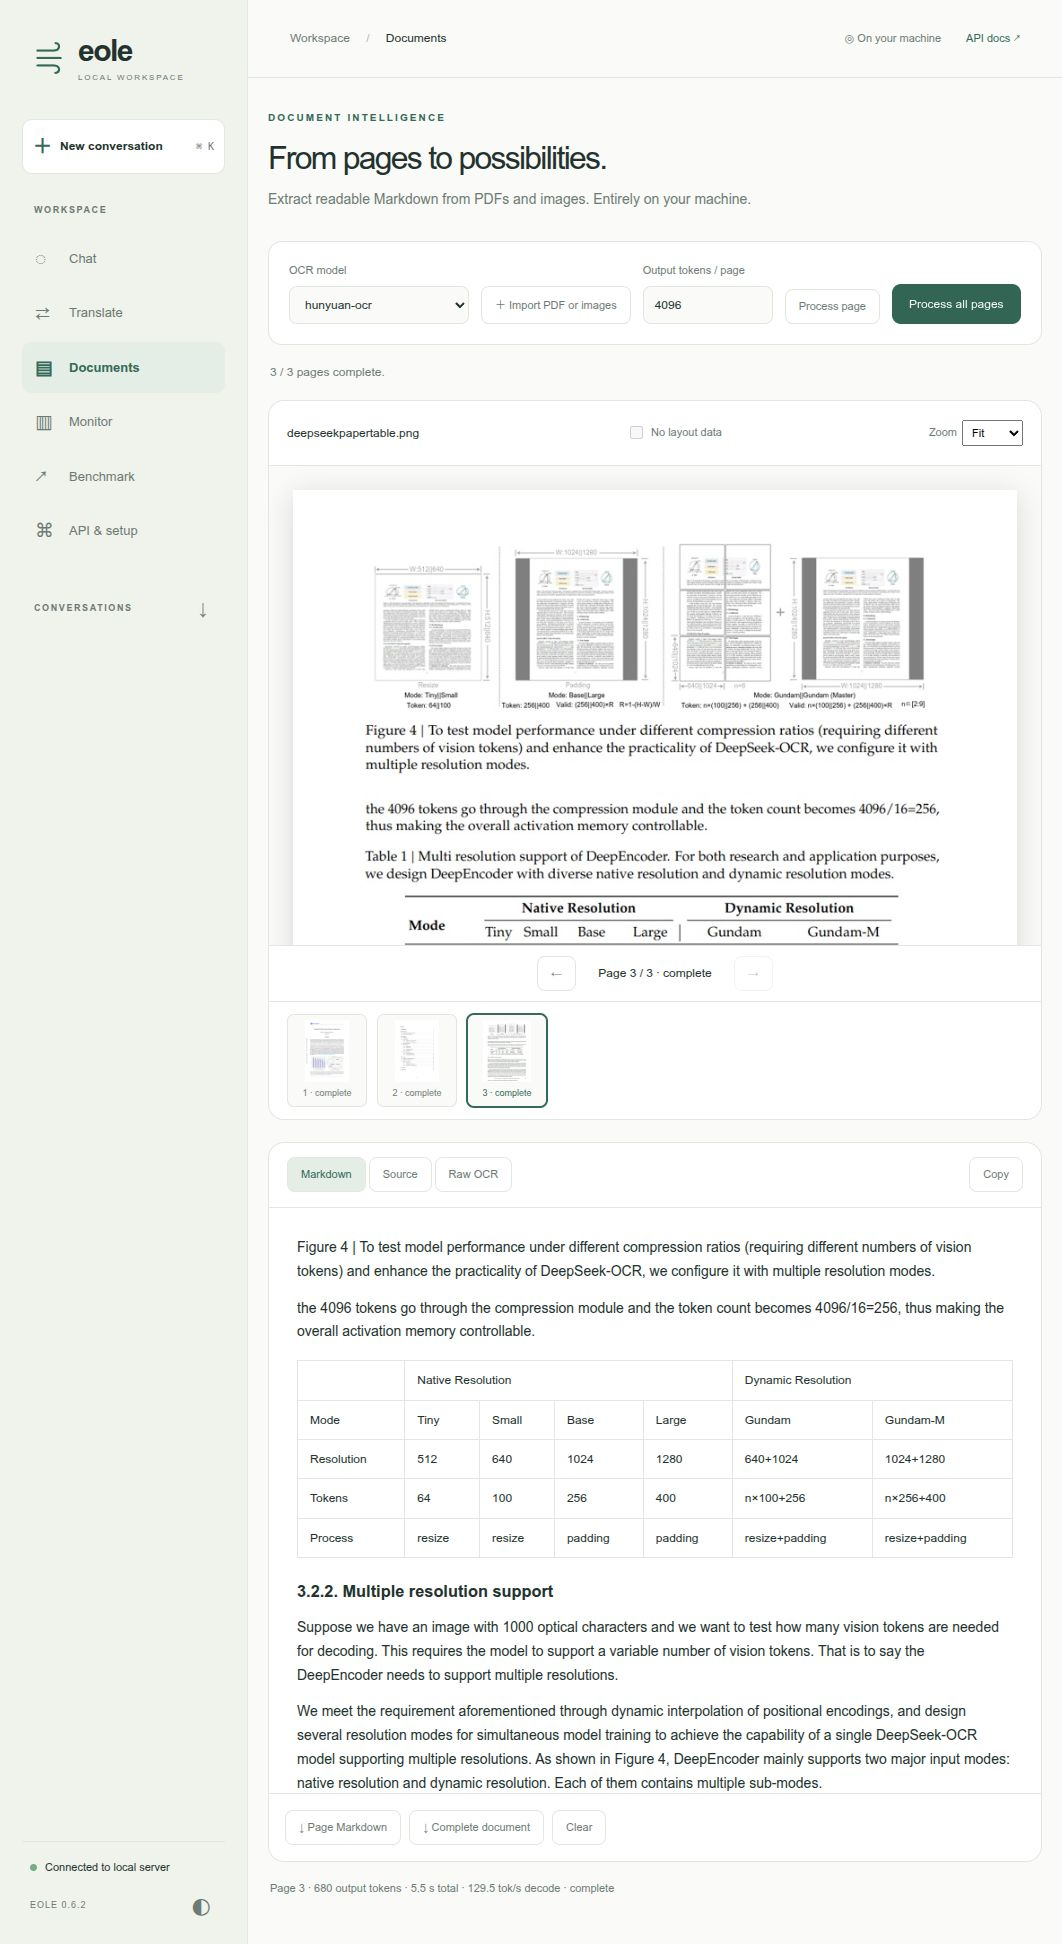
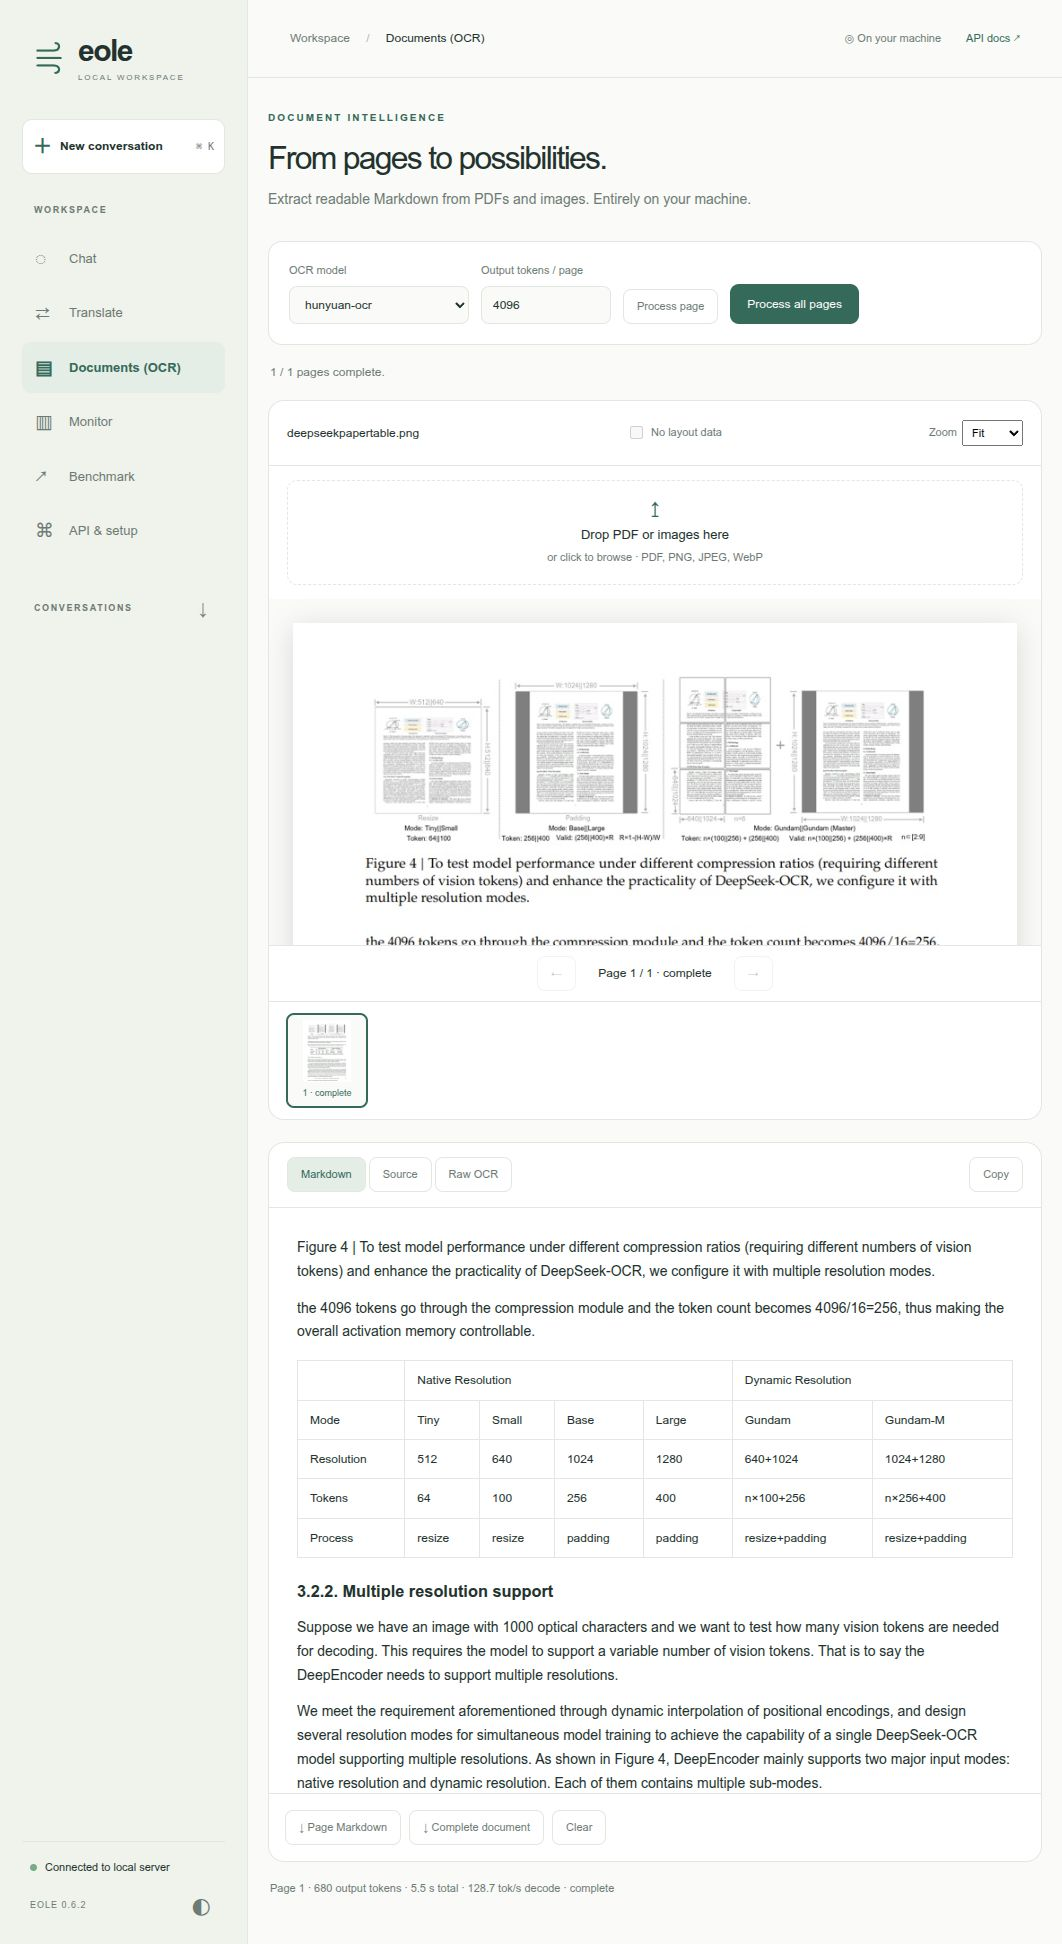
Add document drag-and-drop and clarify OCR workspace navigation

diff --git a/eole/server/web/ocr.js b/eole/server/web/ocr.js
@@ -24,6 +24,7 @@
       $(id).disabled =
         running || importing || !pages.length || !$("model").value;
     $("file").disabled = running || importing;
+    $("dropzone").setAttribute("aria-disabled", String(running || importing));
     $("clear").disabled = running || importing || !pages.length;
     $("model").disabled = running;
     $("limit").disabled = running;
@@ -142,14 +143,63 @@
     controls();
     layoutControl();
   });
-  document.querySelector(".ocr-upload").onkeydown = (event) => {
+  const area = $("document-area");
+  let dragDepth = 0;
+  const hasFiles = (event) =>
+    Array.from(event.dataTransfer?.types || []).includes("Files");
+  $("dropzone").onclick = (event) => {
+    if (event.target !== $("file") && !running && !importing) $("file").click();
+  };
+  $("dropzone").onkeydown = (event) => {
     if (event.key === "Enter" || event.key === " ") {
       event.preventDefault();
-      $("file").click();
+      $("dropzone").click();
     }
   };
-  $("file").onchange = async () => {
-    const files = Array.from($("file").files);
+  area.addEventListener("dragenter", (event) => {
+    if (!hasFiles(event)) return;
+    event.preventDefault();
+    dragDepth++;
+    if (!running && !importing) area.classList.add("ocr-drag-active");
+  });
+  area.addEventListener("dragover", (event) => {
+    if (hasFiles(event)) {
+      event.preventDefault();
+      event.dataTransfer.dropEffect = running || importing ? "none" : "copy";
+    }
+  });
+  area.addEventListener("dragleave", (event) => {
+    dragDepth = Math.max(0, dragDepth - 1);
+    if (!dragDepth) area.classList.remove("ocr-drag-active");
+  });
+  area.addEventListener("drop", (event) => {
+    if (!hasFiles(event)) return;
+    event.preventDefault();
+    event.stopPropagation();
+    dragDepth = 0;
+    area.classList.remove("ocr-drag-active");
+    importFiles(Array.from(event.dataTransfer.files));
+  });
+  // A missed drop must not navigate away and discard the current document.
+  for (const name of ["dragover", "drop"])
+    document.addEventListener(name, (event) => {
+      if (hasFiles(event)) event.preventDefault();
+    });
+  $("file").onchange = () => importFiles(Array.from($("file").files));
+  async function importFiles(files) {
+    if (running || importing) {
+      status("Wait for processing to finish before adding files.");
+      return;
+    }
+    if (!files.length) return;
+    if (
+      files.length > 50 ||
+      files.some((f) => !/\.(pdf|png|jpe?g|webp)$/i.test(f.name))
+    ) {
+      status("Choose up to 50 PDF, PNG, JPEG or WebP files.");
+      $("file").value = "";
+      return;
+    }
     importing = true;
     controls();
     try {
@@ -189,7 +239,7 @@
         show();
       }
       status(
-        `${pages.length} pages ready. Select a page or process the complete document.`,
+        `${pages.length} ${pages.length === 1 ? "page" : "pages"} ready. Select a page or process the complete document.`,
       );
     } catch (e) {
       status(e.message);
@@ -198,7 +248,7 @@
       $("file").value = "";
       controls();
     }
-  };
+  }
   async function process(indices) {
     const max_tokens = Number($("limit").value);
     if (!Number.isInteger(max_tokens) || max_tokens < 1 || max_tokens > 16384) {
@@ -332,7 +382,7 @@
     pages = [];
     selected = 0;
     $("preview").innerHTML =
-      '<div class="ocr-empty"><h2>Ready for your next document</h2><p>Import a PDF or images to begin.</p></div>';
+      '<div class="ocr-empty"><h2>Ready for your next document</h2><p>Drop a PDF or images above to begin.</p></div>';
     $("output").textContent = "";
     $("thumbnails").textContent = "";
     $("name").textContent = "Original document";

diff --git a/eole/server/web/index.html b/eole/server/web/index.html
@@ -40,7 +40,7 @@
         ><button class="nav-item" data-view="translate">
           <span>⇄</span> Translate</button
         ><button class="nav-item" data-view="ocr">
-          <span>▤</span> Documents</button
+          <span>▤</span> Documents (OCR)</button
         ><button class="nav-item" data-view="monitor">
           <span>▥</span> Monitor</button
         ><button class="nav-item" data-view="benchmark">
@@ -100,13 +100,6 @@
                 id="ocr-model"
                 aria-label="OCR model"
               ></select></label
-            ><label class="quiet-button ocr-upload" role="button" tabindex="0"
-              >＋ Import PDF or images<input
-                id="ocr-file"
-                type="file"
-                accept=".pdf,image/png,image/jpeg,image/webp"
-                multiple
-                hidden /></label
             ><label
               >Output tokens / page<input
                 id="ocr-limit"
@@ -125,11 +118,11 @@
             role="status"
             aria-live="polite"
           >
-            Import a document to begin · PDF, PNG, JPEG or WebP · up to 50 pages
-            / 20 MB per file
+            Drop a document to begin · PDF, PNG, JPEG or WebP · up to 50 pages /
+            20 MB per file
           </div>
           <div class="ocr-grid">
-            <div class="ocr-panel">
+            <div class="ocr-panel" id="ocr-document-area">
               <div class="ocr-panel-heading">
                 <strong id="ocr-name">Original document</strong
                 ><label
@@ -144,12 +137,30 @@
                   </select></label
                 >
               </div>
+              <div
+                id="ocr-dropzone"
+                class="ocr-dropzone"
+                role="button"
+                tabindex="0"
+                aria-label="Drop PDF or images here, or click to browse"
+              >
+                <span class="ocr-drop-icon" aria-hidden="true">↥</span>
+                <strong>Drop PDF or images here</strong
+                ><span>or click to browse · PDF, PNG, JPEG, WebP</span>
+                <input
+                  id="ocr-file"
+                  type="file"
+                  accept=".pdf,image/png,image/jpeg,image/webp"
+                  multiple
+                  hidden
+                />
+              </div>
               <div class="ocr-preview" id="ocr-preview">
                 <div class="ocr-empty">
                   ▤
                   <h2>Your document, page by page</h2>
                   <p>
-                    Import a PDF or images to preview and extract their
+                    Drop a PDF or images above to preview and extract their
                     contents.
                   </p>
                 </div>

diff --git a/eole/server/web/ocr.css b/eole/server/web/ocr.css
@@ -13,7 +13,7 @@
   border: 1px solid var(--line);
   border-radius: 14px;
 }
-.ocr-toolbar label:not(.ocr-upload) {
+.ocr-toolbar label {
   display: grid;
   gap: 7px;
   font-size: 11px;
@@ -22,12 +22,7 @@
 .ocr-toolbar input[type="number"] {
   width: 130px;
 }
-.ocr-upload {
-  cursor: pointer;
-  display: inline-flex;
-  align-items: center;
-  min-height: 38px;
-}
+
 .ocr-status {
   padding: 18px 2px;
   font-size: 12px;
@@ -312,4 +307,52 @@
 .ocr-table td,
 .ocr-table th {
   white-space: pre-wrap;
+}
+
+.ocr-dropzone {
+  flex-shrink: 0;
+  margin: 14px 18px;
+  padding: 18px 12px;
+  border: 1px dashed var(--line);
+  border-radius: 10px;
+  display: flex;
+  flex-direction: column;
+  align-items: center;
+  gap: 4px;
+  color: var(--muted);
+  cursor: pointer;
+  text-align: center;
+  transition:
+    background 0.15s,
+    border-color 0.15s;
+}
+.ocr-dropzone strong {
+  font-size: 13px;
+  font-weight: 500;
+  color: var(--ink);
+}
+.ocr-dropzone > span:last-of-type {
+  font-size: 11px;
+}
+.ocr-drop-icon {
+  color: var(--accent);
+  font-size: 22px;
+  line-height: 1;
+}
+.ocr-dropzone:hover,
+.ocr-drag-active .ocr-dropzone {
+  background: var(--accent-soft);
+  border-color: var(--accent);
+}
+.ocr-drag-active {
+  outline: 2px solid var(--accent);
+  outline-offset: 3px;
+}
+.ocr-dropzone[aria-disabled="true"] {
+  opacity: 0.5;
+  cursor: wait;
+}
+.ocr-dropzone:focus-visible {
+  outline: 2px solid var(--accent);
+  outline-offset: 3px;
 }

diff --git a/eole/server/web/app.js b/eole/server/web/app.js
@@ -64,7 +64,7 @@ function switchView(view) {
   $("view-title").textContent = {
     chat: "Chat",
     translate: "Translate",
-    ocr: "Documents",
+    ocr: "Documents (OCR)",
     monitor: "Monitor",
     benchmark: "Benchmark",
     connect: "API & setup",

diff --git a/eole/tests/test_ui_ocr.py b/eole/tests/test_ui_ocr.py
@@ -247,4 +247,5 @@ class OCRAdapterTests(unittest.TestCase):
         node = shutil.which("node")
         if node is None:
             self.skipTest("Node is only needed for this browser renderer regression check")
-        subprocess.run([node, str(Path(__file__).with_name("web") / "test_ocr_render.cjs")], check=True, timeout=20)
+        for script in ("test_ocr_render.cjs", "test_ocr_drop.cjs"):
+            subprocess.run([node, str(Path(__file__).with_name("web") / script)], check=True, timeout=20)

diff --git a/recipes/ui/README.md b/recipes/ui/README.md
@@ -128,7 +128,8 @@ export DEEPSEEK_OCR_MODEL="$EOLE_MODEL_DIR/DeepSeek-OCR"
 eole serve -c recipes/ui/serve-ocr.yaml --host 127.0.0.1 --port 5000
 ```
 
-Open the workspace and choose **Documents**. Import a PDF or PNG/JPEG/WebP images,
+Open the workspace and choose **Documents (OCR)**. Drop a PDF or PNG/JPEG/WebP images onto the document
+area (or click the drop zone to browse),
 then browse the thumbnail strip or previous/next controls. Process the selected
 page, or all unfinished pages. Results appear page by page; Markdown, source and
 raw grounding output are available separately. Toggle layout boxes and zoom the
